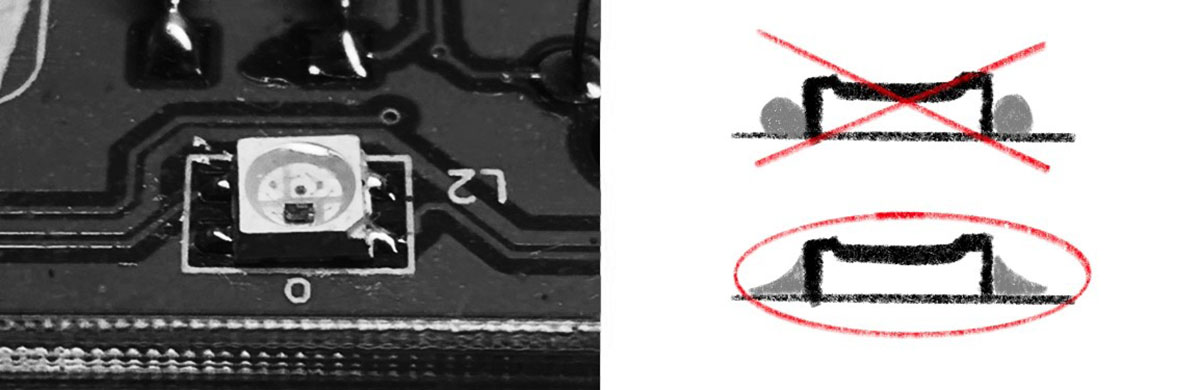
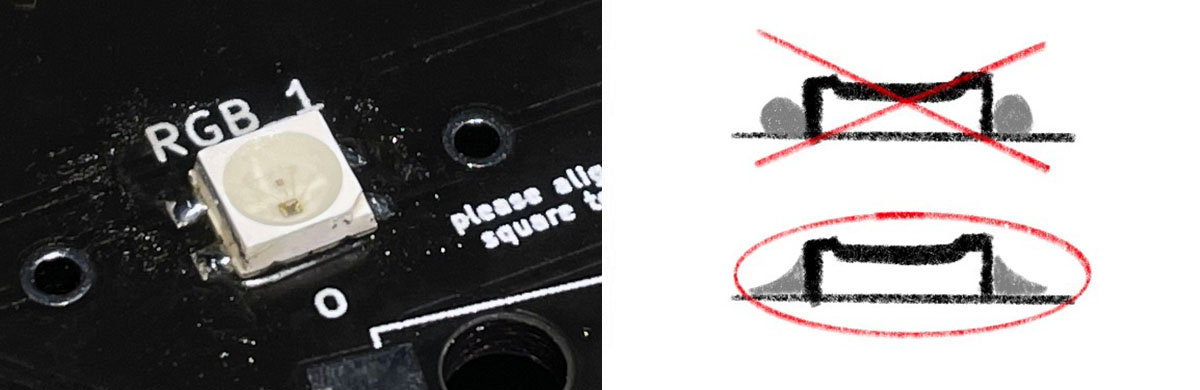
updated imgs to owl photos

diff --git a/README.md b/README.md
@@ -11,6 +11,7 @@ last update - Jan/1st/2022
 * [ProMicro](#promicro)
 * [flashing](#flashing)
 * [LEDs](#leds)
+* [CD4051](#CD4051)
 * [diodes](#diodes)
 * [hotswap sockets](#hotswap-sockets)
 * [rotary encoder](#rotary-encoder)
@@ -156,7 +157,7 @@ Then solder the ProMicro in place, then solder the wires like shown above. Pay a
 
 Make sure there is no contact between exposed wire ends and the rest of the components. Using electrical tape to insulate the exposed ends after soldering is recommended.
 
-continue to [section](#leds)
+continue to [LED section](#leds)
 
 </details>
 
@@ -209,13 +210,13 @@ LEDs should be positioned as shown above, **the small black square inside the LE
 
 <br/>
 
-[**This**](https://streamable.com/dimwli) is how I solder the LEDs.
+Please watch this [**short video**](https://streamable.com/dimwli) of how I solder the LEDs.
 1. apply flux to **both** the PCB and the LED with a brush
 2. set the soldering iron to **300C** to prevent burning out the LEDs
-3. place LED on the PCB. Make sure it's positioned** correctly** on the pads.
+3. place LED on the PCB. Make sure it's positioned **correctly** on the pads.
 4. apply a **small** amount of solder to the soldering iron
 5. make a short swiping motion **perpendicular** to the LED
-6. repeat for all **4** pads.
+6. repeat for all **13** pads.
 
 <br/>
 
@@ -225,6 +226,19 @@ The finished solder joints should look like the photo above. You are aiming for 
 Please make sure you only make contact with the iron for **2-3 seconds** at a time. Longer exposure to heat can burn out the LED.
 
 In the case that you burn through even the extra LEDs provided, model number is **SK6812 3535 mini**.
+
+<br/>
+<br/>
+
+## CD4051
+
+### small steps
+
+![CD4051](img/CD4051.jpg)
+
+Nothing fancy here. Solder the CD4051 chip as shown above. Align the small notch on the chip to the print on the PCB.
+Make sure the chip is facing the right direction before you solder it.
+The legs are **malleable**. Bend them a little if they need to be in order to fit the PCB.
 
 <br/>
 <br/>
